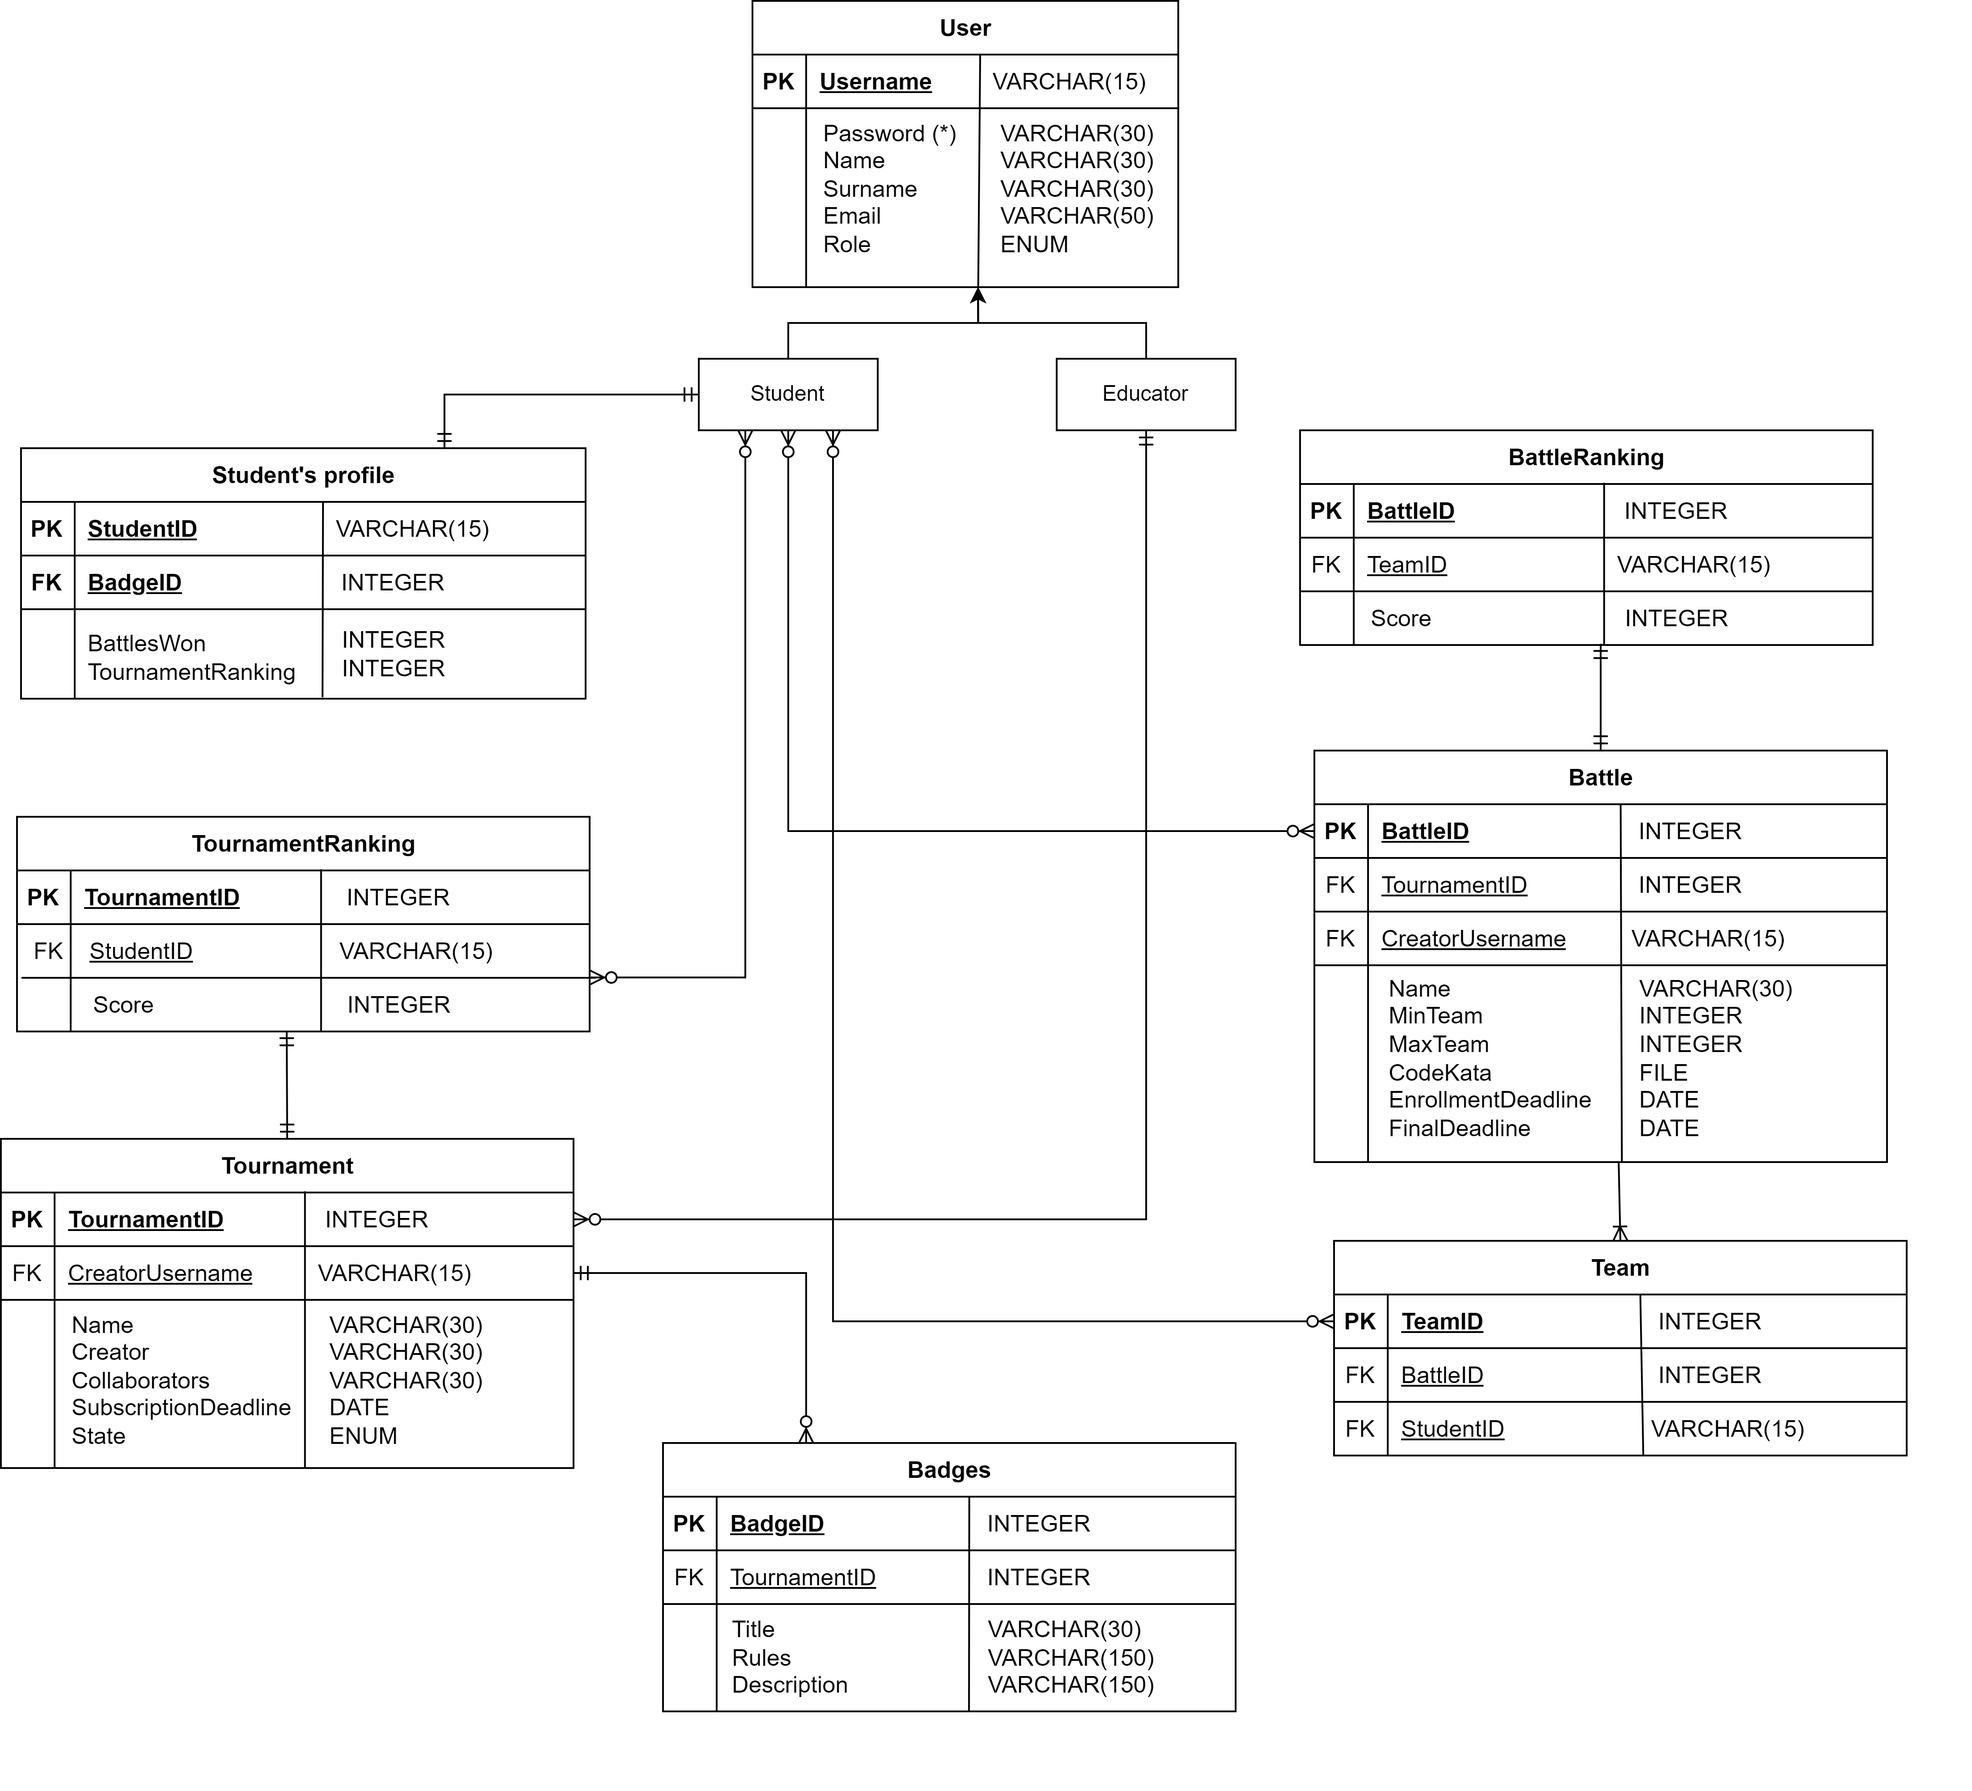
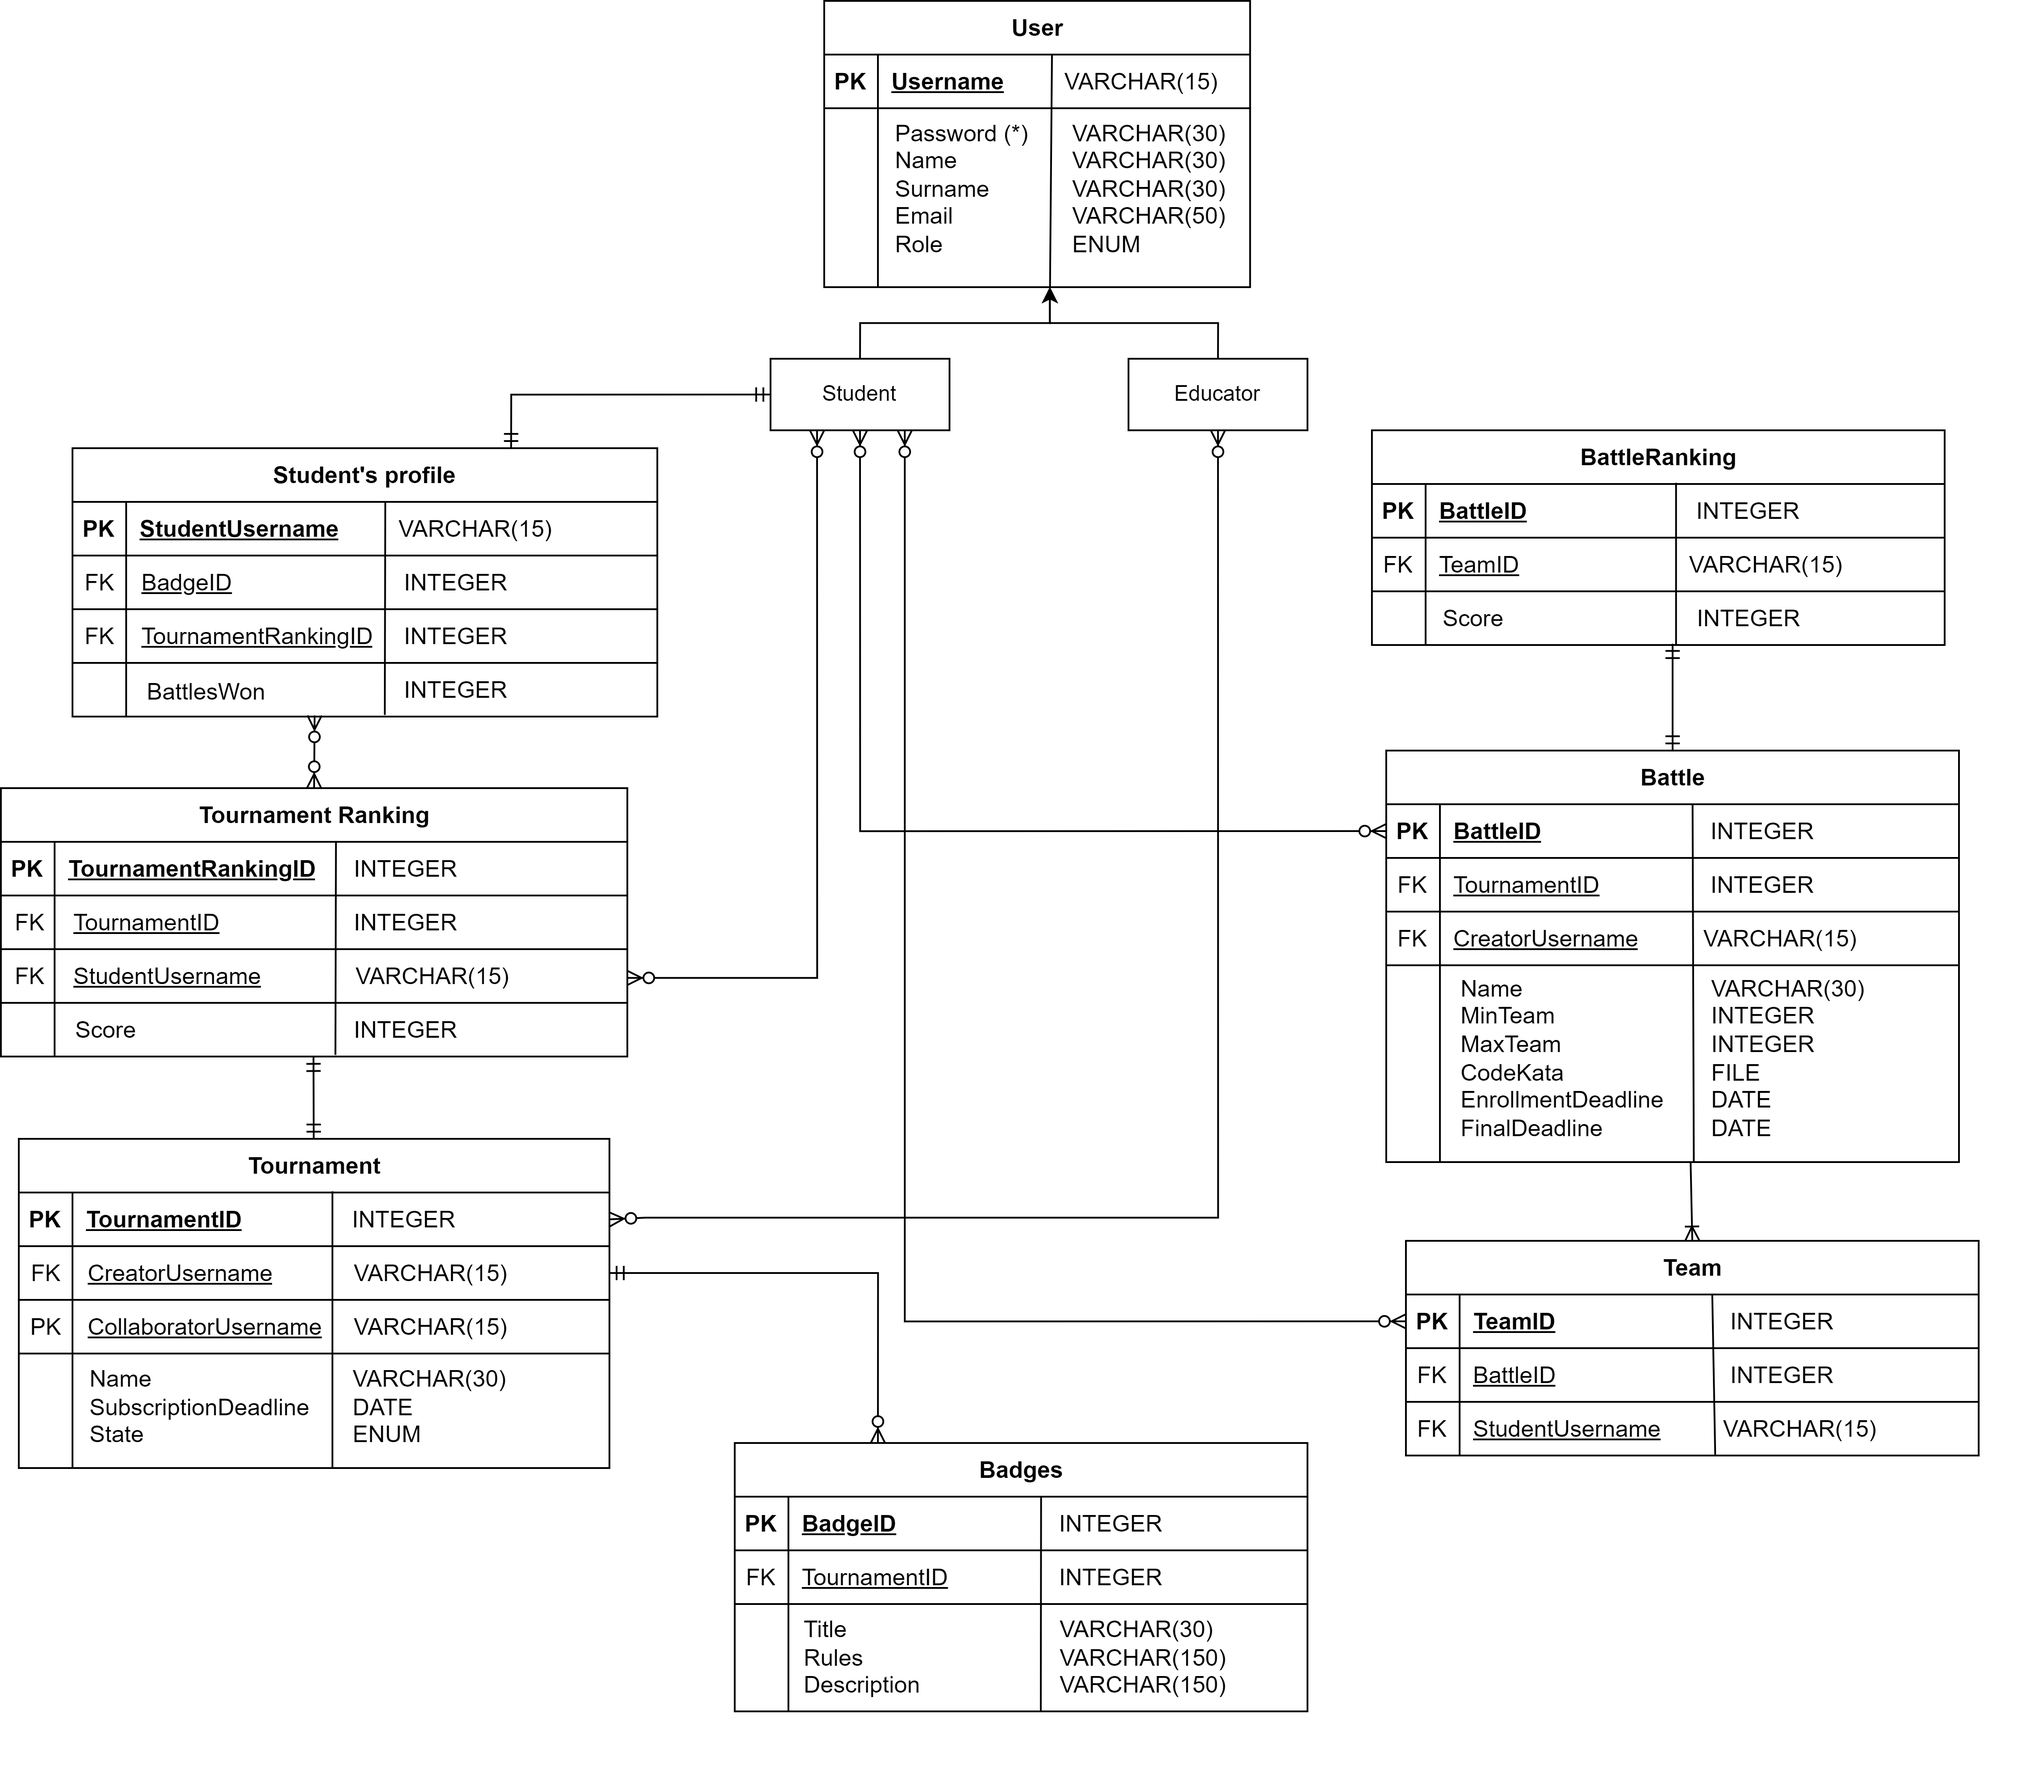
Small fix on DB

diff --git a/DD/chapters/2_architectural_design.tex b/DD/chapters/2_architectural_design.tex
@@ -137,7 +137,7 @@ In this way the client communicates only with the dashboard interface, that mana
 \subsection*{Relational DBMS}
 The data layer, as mentioned in section \ref{sec: deployment}, consists of a relational DBMS. A MySQL DBMS will be used since it is an open-source relational database management system (RDBMS). \newline
 In figure \ref{fig:DB} shows the database structure. \newline
-For clarity, the "password" attribute in the user table is represented, but will be encrypted, and the "studentID" attribute is the same as "username" for a student. 
+For clarity, the "password" attribute in the user table is represented, but will be encrypted.
 
 \begin{figure}[h]
     \centering 
